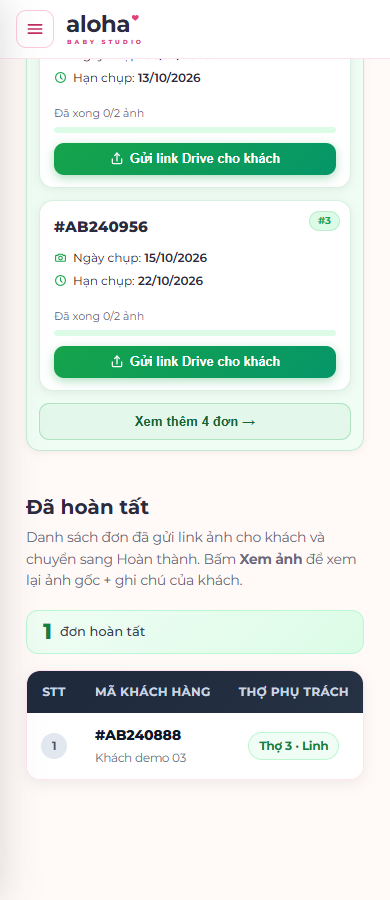
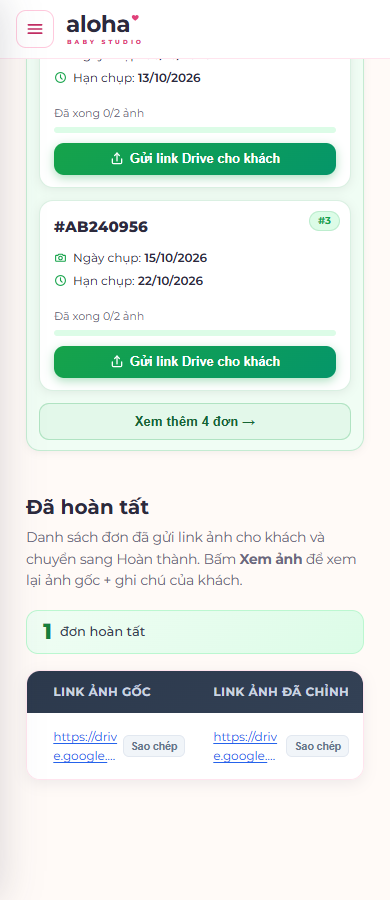
Hằng-Tho anh: bỏ "Khách đang thấy" ở phần gửi link, thêm link Drive demo cho mục Đã hoàn tất
- Hộp "Gửi link ảnh cho khách": bỏ khung xanh hiển thị link đang có, chỉ giữ 2 ô link ảnh gốc + ảnh đã chỉnh.
- Chi tiết đơn: bỏ dòng "Khách đang thấy (gửi lúc ...)", chỉ còn link ảnh gốc / ảnh đã chỉnh.
- Đơn demo #AB240888 (Đã hoàn tất) có 2 link Drive demo.
- test-tho-anh: thêm 2 kiểm tra (31/31 PASS).

Changed region(s): [[0.0923, 0.7467, 0.8923, 0.7778], [0.0923, 0.8089, 0.4923, 0.8711], [0.5538, 0.8089, 0.8923, 0.8711]]

diff --git a/crm/js/admin.js b/crm/js/admin.js
@@ -793,7 +793,8 @@ document.addEventListener('DOMContentLoaded', () => {
     { id: 'static-2', orderCode: '#AB240902', customerName: 'Khách demo 02', serviceLabel: 'Sinh nhật',  status: 'Đang thực hiện', note: 'Xoá phông lộn xộn phía sau bé.',    createdAt: now - 3 * 24 * HOUR,    priority: 'urgent', shootDate: '26/09/2026', deadline: '29/09/2026', photoIds: [5, 6, 7, 8, 9], doneIds: [5, 6], photographer: 'tho2' },
     { id: 'static-6', orderCode: '#AB240871', customerName: 'Khách demo 07', serviceLabel: 'Bé lớn',    status: 'Đang thực hiện', note: '',                                     createdAt: now - 30 * HOUR,        priority: 'urgent', shootDate: '27/09/2026', deadline: '30/09/2026', photoIds: [7, 8],          doneIds: [], photographer: 'tho1' },
     // --- Trung bình (medium) ---
-    { id: 'static-3', orderCode: '#AB240888', customerName: 'Khách demo 03', serviceLabel: 'Bầu',       status: 'Hoàn thành',   note: '',                                     createdAt: now - 5 * 24 * HOUR,    priority: 'medium', shootDate: '29/09/2026', deadline: '05/10/2026', photoIds: [10, 11, 12],    doneIds: [10, 11, 12], photographer: 'tho3' },
+    { id: 'static-3', orderCode: '#AB240888', customerName: 'Khách demo 03', serviceLabel: 'Bầu',       status: 'Hoàn thành',   note: '',                                     createdAt: now - 5 * 24 * HOUR,    priority: 'medium', shootDate: '29/09/2026', deadline: '05/10/2026', photoIds: [10, 11, 12],    doneIds: [10, 11, 12], photographer: 'tho3',
+      resultLinkOriginal: 'https://drive.google.com/drive/folders/demo-AB240888-anh-goc', resultLink: 'https://drive.google.com/drive/folders/demo-AB240888-anh-da-chinh' },
     { id: 'static-7', orderCode: '#AB240915', customerName: 'Khách demo 08', serviceLabel: 'Sinh nhật', status: 'Chờ xử lý',     note: '',                                     createdAt: now - 4 * 24 * HOUR,    priority: 'medium', shootDate: '30/09/2026', deadline: '06/10/2026', photoIds: [13, 14],        doneIds: [], photographer: 'tho2' },
     { id: 'static-8', orderCode: '#AB240923', customerName: 'Khách demo 09', serviceLabel: 'Newborn',   status: 'Chờ xử lý',     note: '',                                     createdAt: now - 2 * 24 * HOUR,    priority: 'medium', shootDate: '02/10/2026', deadline: '09/10/2026', photoIds: [15, 16],        doneIds: [], photographer: 'tho3' },
     // --- Chưa gấp (normal) ---
@@ -811,6 +812,7 @@ document.addEventListener('DOMContentLoaded', () => {
       status: r.status, note: r.note, createdAt: r.createdAt, isStatic: true,
       priority: r.priority || 'normal', shootDate: r.shootDate || '', deadline: r.deadline || '',
       photographer: r.photographer || 'tho1',
+      resultLink: r.resultLink || '', resultLinkOriginal: r.resultLinkOriginal || '',
       photos: r.photoIds.map(n => ({ id: 'ph-' + n, src: '../images/my-photos/photo-' + n + '.jpg', note: '' })),
       photoCount: r.photoIds.length
     };
@@ -1143,8 +1145,6 @@ document.addEventListener('DOMContentLoaded', () => {
   const driveOrderEl  = document.getElementById('driveModalOrder');
   const driveInput    = document.getElementById('driveModalInput');
   const driveErrorEl  = document.getElementById('driveModalError');
-  const driveCurrentEl = document.getElementById('driveModalCurrent');
-  const driveCurrentLink = document.getElementById('driveModalCurrentLink');
   const driveForm     = document.getElementById('driveModalForm');
   const driveSubmitBtn = document.getElementById('driveModalSubmit');
   let driveReq = null; // yêu cầu đang mở trong drive modal
@@ -1175,24 +1175,6 @@ document.addEventListener('DOMContentLoaded', () => {
     const driveInputOrig = document.getElementById('driveModalInputOriginal');
     if (driveInputOrig) driveInputOrig.value = existingOrig;
     if (driveErrorEl) driveErrorEl.hidden = true;
-    // Hiển thị link đang có (nếu đã gửi trước)
-    if (driveCurrentEl && driveCurrentLink) {
-      const hasAny = (existing && /^https:\/\//i.test(existing)) || (existingOrig && /^https:\/\//i.test(existingOrig));
-      if (hasAny) {
-        const origEl = document.getElementById('driveModalCurrentLinkOriginal');
-        if (origEl) {
-          origEl.href = existingOrig || '#';
-          origEl.textContent = existingOrig || '(chưa có)';
-          origEl.style.color = existingOrig ? '' : '#94a3b8';
-        }
-        driveCurrentLink.href = existing || '#';
-        driveCurrentLink.textContent = existing || '(chưa có)';
-        driveCurrentLink.style.color = existing ? '' : '#94a3b8';
-        driveCurrentEl.hidden = false;
-      } else {
-        driveCurrentEl.hidden = true;
-      }
-    }
     // Nhãn nút submit thay đổi theo trạng thái
     if (driveSubmitBtn) {
       const alreadySent = !!(existing || existingOrig);
@@ -1280,10 +1262,6 @@ document.addEventListener('DOMContentLoaded', () => {
       }
       if (driveErrorEl) driveErrorEl.hidden = true;
       // Cập nhật giao diện modal
-      const origEl = document.getElementById('driveModalCurrentLinkOriginal');
-      if (origEl) { origEl.href = urlOrig || '#'; origEl.textContent = urlOrig || '(chưa có)'; origEl.style.color = urlOrig ? '' : '#94a3b8'; }
-      if (driveCurrentLink) { driveCurrentLink.href = url || '#'; driveCurrentLink.textContent = url || '(chưa có)'; driveCurrentLink.style.color = url ? '' : '#94a3b8'; }
-      if (driveCurrentEl) driveCurrentEl.hidden = false;
       if (driveSubmitBtn) { driveSubmitBtn.classList.add('sent'); driveSubmitBtn.innerHTML = (driveSubmitBtn.querySelector('svg') ? driveSubmitBtn.querySelector('svg').outerHTML : '') + ' Cập nhật link'; }
       // Cập nhật nút Hoàn tất (hiện khi đã có đủ 2 link)
       updateDriveModalCompleteBtn(driveReq);
@@ -1444,8 +1422,7 @@ document.addEventListener('DOMContentLoaded', () => {
       <section class="kanban-result">
         <h4>Link Drive gửi khách</h4>
         <div class="kanban-result-current" id="kanbanResultCurrent">${hasAny
-          ? `Khách đang thấy (gửi lúc ${escHtml(fmtTime(req.resultLinkAt || req.createdAt))}):
-             ${linkLine('Ảnh gốc', 'kanbanResultAnchorOrig', req.resultLinkOriginal)}
+          ? `${linkLine('Ảnh gốc', 'kanbanResultAnchorOrig', req.resultLinkOriginal)}
              ${linkLine('Ảnh đã chỉnh', 'kanbanResultAnchor', req.resultLink)}`
           : 'Chưa gửi link Drive cho khách.'}</div>
         ${canEditProgress ? `

diff --git a/_screenshots/test-tho-anh.js b/_screenshots/test-tho-anh.js
@@ -152,7 +152,7 @@ const CODE = '#ABTEST01';
   await tho.type('#kanbanLinkEdit', LINK_EDIT);
   await tho.evaluate(() => document.getElementById('kanbanLinkForm').requestSubmit()); await wait(300);
   m = await tho.evaluate(() => ({ cur: document.getElementById('kanbanResultCurrent').textContent, done: !!document.getElementById('kanbanLinkComplete') }));
-  check('Form dưới ảnh: gửi đủ 2 link -> hiện "Khách đang thấy" + nút Hoàn tất', m.cur.includes('goc_test') && m.cur.includes('da_chinh_test') && m.done, JSON.stringify(m));
+  check('Form dưới ảnh: gửi đủ 2 link -> hiện link ảnh gốc + ảnh đã chỉnh + nút Hoàn tất', m.cur.includes('goc_test') && m.cur.includes('da_chinh_test') && m.done, JSON.stringify(m));
   await tho.screenshot({ path: shot('tho-anh-chi-tiet.png') });
   await tho.click('#kanbanLinkComplete'); await wait(400);
   check('Hoàn tất từ form dưới ảnh -> #AB240902 sang bảng Đã hoàn tất', (await doneCodes(tho)).includes('#AB240902') && !(await rowCodes(tho)).includes('#AB240902'));
@@ -174,6 +174,12 @@ const CODE = '#ABTEST01';
   await wait(400);
   check('Sếp không thấy nút Gửi link Drive trên thẻ', (await sep.$$('.photo-row-drive-btn')).length === 0);
   check('Sếp thấy đơn đã Hoàn tất trong bảng', (await doneCodes(sep)).includes(CODE));
+  m = await sep.evaluate(() => {
+    const row = [...document.querySelectorAll('#completedTableBody tr')].find(tr => tr.textContent.includes('#AB240888'));
+    return row ? [...row.querySelectorAll('.ct-link-anchor')].map(a => a.href) : [];
+  });
+  check('Đã hoàn tất: đơn demo #AB240888 hiện đủ 2 link Drive demo', m.length === 2 && m.every(h => h.startsWith('https://drive.google.com/')), JSON.stringify(m));
+  check('Không còn chữ "Khách đang thấy" trên trang', !(await sep.evaluate(() => document.body.innerHTML.includes('Khách đang thấy'))));
   await sep.close();
 
   check('Không có lỗi JS', errors.length === 0, errors.join(' | '));

diff --git a/crm/admin.html b/crm/admin.html
@@ -589,21 +589,6 @@
               khách mở được.</p>
             <p class="drive-modal-error" id="driveModalError" hidden>⚠ Link phải bắt đầu bằng <code>https://</code> (vd
               https://drive.google.com/...)</p>
-            <div class="drive-modal-current" id="driveModalCurrent" hidden>
-              <svg viewBox="0 0 24 24" fill="none" stroke="currentColor" stroke-width="2" stroke-linecap="round"
-                stroke-linejoin="round" aria-hidden="true">
-                <circle cx="12" cy="12" r="9" />
-                <path d="M8 12.5l2.5 2.5L16 9" />
-              </svg>
-              Khách đang thấy:
-              <div style="margin-top:4px;display:flex;flex-direction:column;gap:2px">
-                <span style="font-size:11px;color:#64748b">Ảnh gốc:</span>
-                <a id="driveModalCurrentLinkOriginal" target="_blank" rel="noopener noreferrer"
-                  style="display:block"></a>
-                <span style="font-size:11px;color:#64748b;margin-top:4px">Ảnh đã chỉnh:</span>
-                <a id="driveModalCurrentLink" target="_blank" rel="noopener noreferrer" style="display:block"></a>
-              </div>
-            </div>
             <div class="drive-modal-actions">
               <button type="button" class="drive-modal-cancel" id="driveModalCancel">Huỷ</button>
               <button type="submit" class="drive-modal-submit" id="driveModalSubmit">

diff --git a/css/admin.css b/css/admin.css
@@ -1289,17 +1289,6 @@
 }
 .drive-modal-error code { font-family: monospace; font-size: 11px; }
 
-.drive-modal-current {
-  display: flex; align-items: center; gap: 7px;
-  font-size: 12px; color: #15803d; background: #f0fdf4;
-  border: 1px solid #bbf7d0; border-radius: 8px;
-  padding: 7px 10px; margin-top: 10px; line-height: 1.5;
-}
-.drive-modal-current svg { width: 15px; height: 15px; flex-shrink: 0; color: #16a34a; }
-.drive-modal-current a {
-  color: #15803d; text-decoration: underline; text-underline-offset: 2px;
-  word-break: break-all; font-size: 11.5px;
-}
 
 .drive-modal-actions {
   display: flex; gap: 10px; margin-top: 20px;
